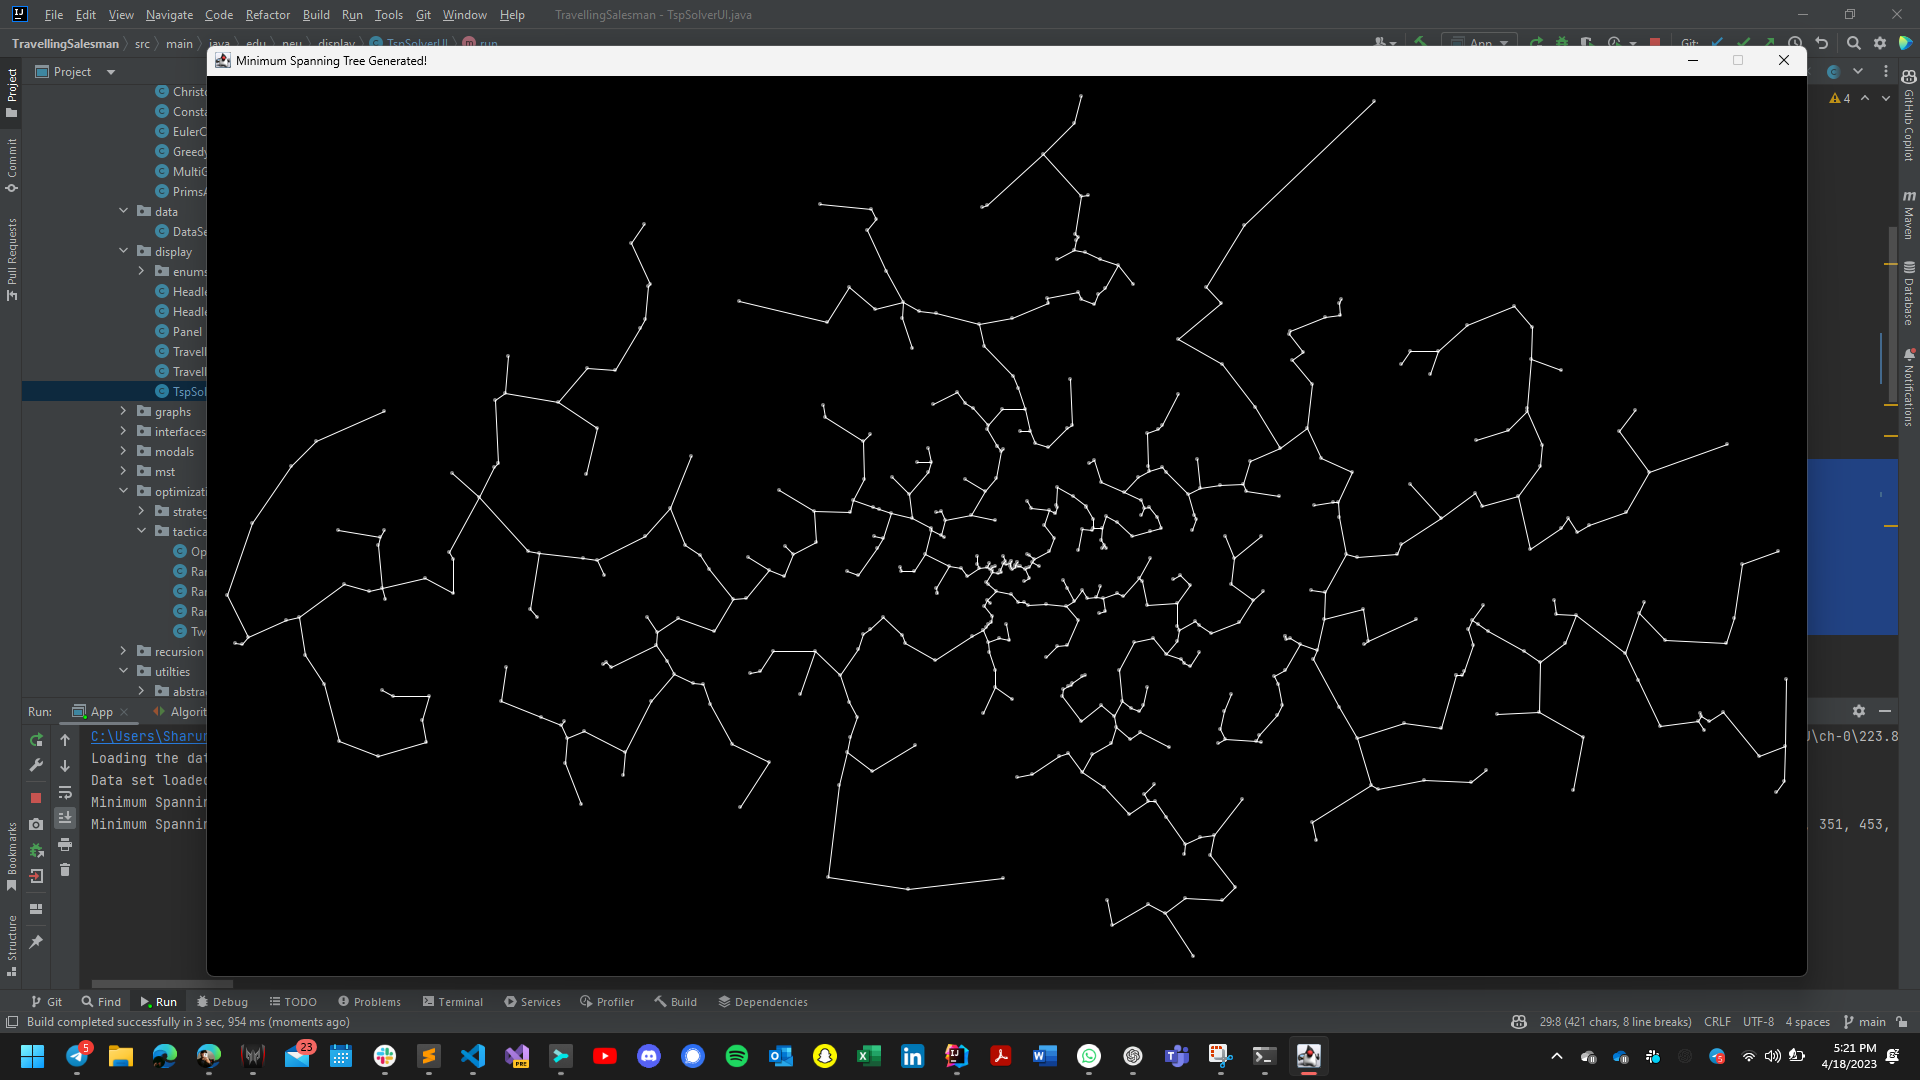
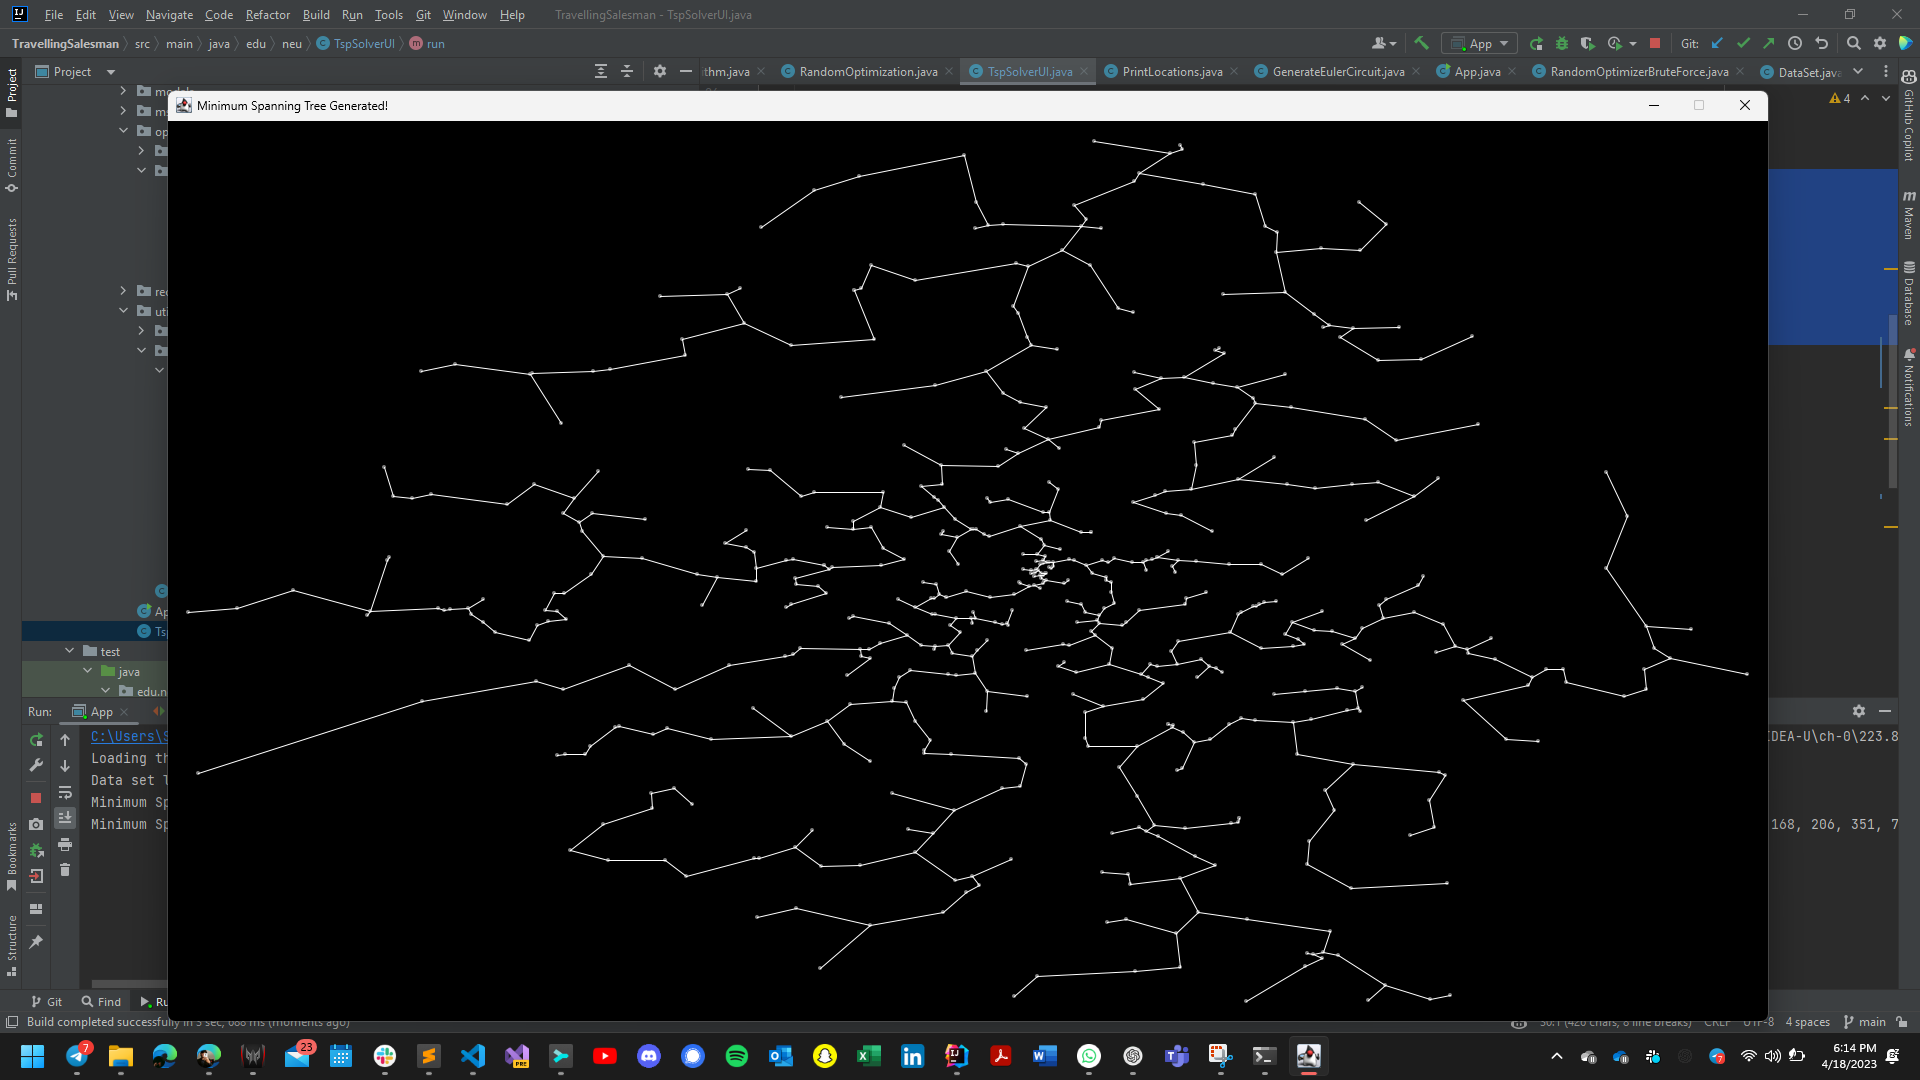
updated outputs and screenshots

diff --git a/TravellingSalesman/src/main/java/edu/neu/utilties/algorithm/RandomOptimization.java b/TravellingSalesman/src/main/java/edu/neu/utilties/algorithm/RandomOptimization.java
@@ -3,7 +3,7 @@ package edu.neu.utilties.algorithm;
 import edu.neu.display.TravellingSalesmanWindow;
 import edu.neu.modals.Location;
 import edu.neu.modals.TravelPath;
-import edu.neu.optimizations.tactical.RandomOptimizer;
+import edu.neu.optimizations.tactical.RandomOptimizerBruteForce;
 import edu.neu.utilties.abstractions.IAlgorithmStep;
 
 import java.util.Random;
@@ -21,7 +21,7 @@ public class RandomOptimization implements IAlgorithmStep {
 
         var path = new TravelPath(locations, route, weightMatrix);
 
-        var optimizer = new RandomOptimizer(locations, weightMatrix, path.getRoute(), new Random(69420),
+        var optimizer = new RandomOptimizerBruteForce(locations, weightMatrix, path.getRoute(), new Random(69420),
                 maxIterations, window);
 
         while (optimizer.hasNext()) {

diff --git a/TravellingSalesman/src/main/java/edu/neu/TspSolverUI.java b/TravellingSalesman/src/main/java/edu/neu/TspSolverUI.java
@@ -52,7 +52,7 @@ public class TspSolverUI {
                 new PrintLocations("Final Locations")
         };
 
-        runFlow(simulated_annealing_flow);
+        runFlow(christofides_flow);
 
     }
 
